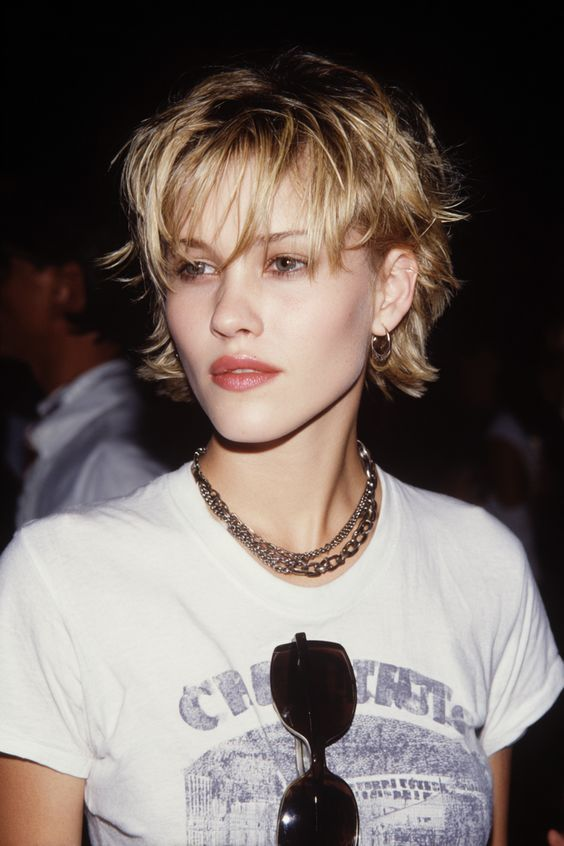
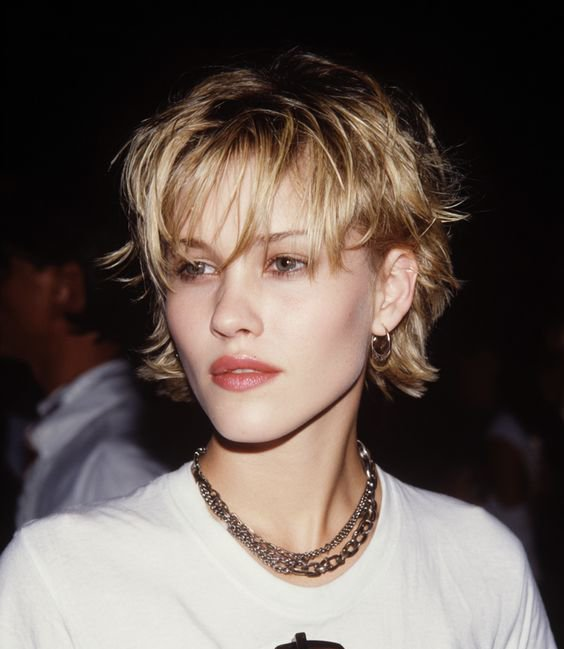
исправление ошибок

diff --git a/index.html b/index.html
@@ -34,7 +34,7 @@
         <img src="img/alience.jpg" alt="Alien">
     </div>
     <div class="hero-card card-2">
-        <img src="img\vane.jpg" alt="Tom">
+        <img src="img/vane.jpg" alt="Tom">
     </div>
     <div class="hero-card card-3">
         <img src="img/trinity.jpg" alt="Alien in Mouth">
@@ -69,8 +69,8 @@
                 </div>
                 <div class="subtypes-container">
                     <div class="subtype-item"><img class="subtype-img" src="img/smullet.jpg" alt="Spicky Mullet" ><span>Smullet</span></div>
-                    <div class="subtype-item"><img class="subtype-img" src="img/longmull.jpg" alt="Удлиненный Mullet" class="retro-img"><span>Удлиненный</span></div>
-                    <div class="subtype-item"><img class="subtype-img" src="img/mulsheg.jpg" alt="Skullet" class="retro-img" class="retro-img"><span>Skullet</span></div>
+                    <div class="subtype-item"><img class="subtype-img retro-img" src="img/longmull.jpg" alt="Удлиненный Mullet"><span>Удлиненный</span></div>
+                    <div class="subtype-item"><img class="subtype-img retro-img" src="img/mulsheg.jpg" alt="Skullet"><span>Skullet</span></div>
                 </div>
             </div>
         </div>
@@ -86,9 +86,9 @@
                     <p>Гранж (90-е): идеально вписывался в эстетику «бунта против гламура», грязных волос и безразличия к внешнему виду. Рок-сцена 70-х: изначально появился как реакция на чёткие, «прилизанные» формы.</p>
                 </div>
                 <div class="subtypes-container">
-                    <div class="subtype-item"><img class="subtype-img" src="img/shene.jpg" alt="Shaggy" class="retro-img"><span>Shaggy</span></div>
-                    <div class="subtype-item"><img class="subtype-img" src="img/shullet.jpg" alt="Shaggy Bob" class="retro-img"><span>Shaggy Bob</span></div>
-                    <div class="subtype-item"><img class="subtype-img" src="img/zamena.jpg" alt="Shullet" class="retro-img"><span>Shullet</span></div>
+                    <div class="subtype-item"><img class="subtype-img retro-img" src="img/shene.jpg" alt="Shaggy"><span>Shaggy</span></div>
+                    <div class="subtype-item"><img class="subtype-img retro-img" src="img/shullet.jpg" alt="Shaggy Bob"><span>Shaggy Bob</span></div>
+                    <div class="subtype-item"><img class="subtype-img retro-img" src="img/zamena.jpg" alt="Shullet"><span>Shullet</span></div>
                 </div>
             </div>
         </div>
@@ -104,8 +104,8 @@
                     <p>Инди/пост-панк и хипстеры 2000-х: в отличие от настоящего ирокеза (панк), faux hawk не вызов, а скорее «стильный акцент» для тех, кто работает в офисе. Его носили в группах вроде Green Day.</p>
                 </div>
                 <div class="subtypes-container">
-                    <div class="subtype-item"><img class="subtype-img" src="img/hawkk.jpg" alt="Faux Hawk" class="retro-img"><span>Faux Hawk</span></div>
-                    <div class="subtype-item"><img class="subtype-img" src="img/hawk.jpg" alt="Double Mohawk" class="retro-img"><span>Double Mohawk</span></div>
+                    <div class="subtype-item"><img class="subtype-img retro-img" src="img/hawkk.jpg" alt="Faux Hawk"><span>Faux Hawk</span></div>
+                    <div class="subtype-item"><img class="subtype-img retro-img" src="img/hawk.jpg" alt="Double Mohawk"><span>Double Mohawk</span></div>
                 </div>
             </div>
         </div>
@@ -121,7 +121,7 @@
                     <p>Флэпперы 1920-х: Пикси (в виде «боба» или «гарсона») стала манифестом «новой женщины» — она водила машину, курила, танцевала чарльстон и отказывалась от длинных волос как символа домашнего подчинения. Панк и пост-панк 70–80-х: Рваная, асимметричная пикси с выбритыми висками стала частью панк-эстетики. Гранж и альтернатива 90-х: Неряшливая пикси с рваными прядями.</p>
                 </div>
                 <div class="subtypes-container">
-                    <div class="subtype-item"><img class="subtype-img" src="img/modcut.jpg" alt="Mod Cut" class="retro-img"><span>Mod Cut</span></div>
+                    <div class="subtype-item"><img class="subtype-img retro-img" src="img/modcut.jpg" alt="Mod Cut"><span>Mod Cut</span></div>
                     <div class="subtype-item"><img class="subtype-img" src="img/flapp.jpg" alt="Flapper"><span>Flapper</span></div>
                 </div>
             </div>
@@ -183,7 +183,7 @@
     <div class="gallery-grid">
 
         <figure class="gallery-item">
-            <div class="gallery-window-title">Кэйт Бланшетт </div>
+            <div class="gallery-window-title"> рваный боб(Кэйт Бланшетт) </div>
             <div class="gallery-photo">
                 <img src="img/katebla.jpg" alt="Alien">
             </div>
@@ -197,7 +197,7 @@
         </figure>
 
         <figure class="gallery-item">
-            <div class="gallery-window-title">(Эмма Дарси)</div>
+            <div class="gallery-window-title">каскад (Эмма Дарси)</div>
             <div class="gallery-photo">
                 <img src="img/darcy.jpg" alt="Trinity">
             </div>
@@ -211,7 +211,7 @@
         </figure>
 
         <figure class="gallery-item">
-            <div class="gallery-window-title">(King princess)</div>
+            <div class="gallery-window-title">шегги (King princess)</div>
             <div class="gallery-photo">
                 <img src="img/princess.jpg" alt="Radiohead">
             </div>
@@ -239,7 +239,7 @@
         </figure>
 
         <figure class="gallery-item">
-            <div class="gallery-window-title"></div>
+            <div class="gallery-window-title">modcut (Кетрин Мённинг)</div>
             <div class="gallery-photo">
                 <img src="img/shenekat.jpg" alt="Faux Hawk">
             </div>
@@ -253,70 +253,70 @@
         </figure>
 
         <figure class="gallery-item">
-            <div class="gallery-window-title">modcut.tiff</div>
+            <div class="gallery-window-title">шегги (Том Йорк)</div>
             <div class="gallery-photo">
                 <img src="img/tom.jpg" alt="Mod Cut">
             </div>
         </figure>
 
         <figure class="gallery-item">
-            <div class="gallery-window-title">flapper.ico</div>
+            <div class="gallery-window-title">пикси (Вайнора Райдер)</div>
             <div class="gallery-photo">
                 <img src="img/pixie.jpg" alt="Flapper">
             </div>
         </figure>
 
         <figure class="gallery-item">
-            <div class="gallery-window-title">Сэди Синк</div>
+            <div class="gallery-window-title">рваный пикси (Сэди Синк)</div>
             <div class="gallery-photo">
-                <img src="img/sadie sink.jpg" alt="Короткая стрижка Сэди Синк" loading="lazy">
+                <img src="img/sadie.jpg" alt="Короткая стрижка Сэди Синк" loading="lazy">
             </div>
         </figure>
 
         <figure class="gallery-item">
-            <div class="gallery-window-title">чикина</div>
+            <div class="gallery-window-title">кроп (Юля Чикина)</div>
             <div class="gallery-photo">
                 <img src="img/chikinaa.jpg" alt="Стрижка чикина с длинной чёлкой" loading="lazy">
             </div>
         </figure>
 
         <figure class="gallery-item">
-            <div class="gallery-window-title">Джоан Джетт</div>
+            <div class="gallery-window-title">маллет (Джоан Джетт)</div>
             <div class="gallery-photo">
                 <img src="img/joan jett.jpg" alt="Рок-причёска Джоан Джетт" loading="lazy">
             </div>
         </figure>
 
         <figure class="gallery-item">
-            <div class="gallery-window-title">Руби</div>
+            <div class="gallery-window-title">шегги (Руби Кпус)</div>
             <div class="gallery-photo">
                 <img src="img/rubi.jpg" alt="Стрижка Руби с рваной чёлкой" loading="lazy">
             </div>
         </figure>
 
         <figure class="gallery-item">
-            <div class="gallery-window-title">Боунд</div>
+            <div class="gallery-window-title">каскад (Джина Гершон)</div>
             <div class="gallery-photo">
                 <img src="img/bound.jpg" alt="Короткая стрижка боунд с рваными прядями" loading="lazy">
             </div>
         </figure>
 
         <figure class="gallery-item">
-            <div class="gallery-window-title">Адельч</div>
+            <div class="gallery-window-title">Маллет (Адель)</div>
             <div class="gallery-photo">
                 <img src="img/adelch.jpg" alt="Стрижка пикси с длинной чёлкой" loading="lazy">
             </div>
         </figure>
 
         <figure class="gallery-item">
-            <div class="gallery-window-title">Икси</div>
+            <div class="gallery-window-title">пикси</div>
             <div class="gallery-photo">
                 <img src="img/ixie.jpg" alt="Классическая стрижка пикси" loading="lazy">
             </div>
         </figure>
 
         <figure class="gallery-item">
-            <div class="gallery-window-title">Лизи</div>
+            <div class="gallery-window-title">(Леа Сейду)</div>
             <div class="gallery-photo">
                 <img src="img/leasedy.jpg" alt="Стрижка Лизи с рваной чёлкой" loading="lazy">
             </div>
@@ -364,7 +364,7 @@
                 <div class="match-grid">
                     <div class="match-card">
                         <h4>Овальное</h4>
-                        <p>Мдёт практически всё. Можно экспериментировать: от пикси до маллета. Смотри, что нравится.</p>
+                        <p>Идёт практически всё. Можно экспериментировать: от пикси до маллета. Смотри, что нравится.</p>
                     </div>
                     <div class="match-card">
                         <h4>Круглое</h4>
